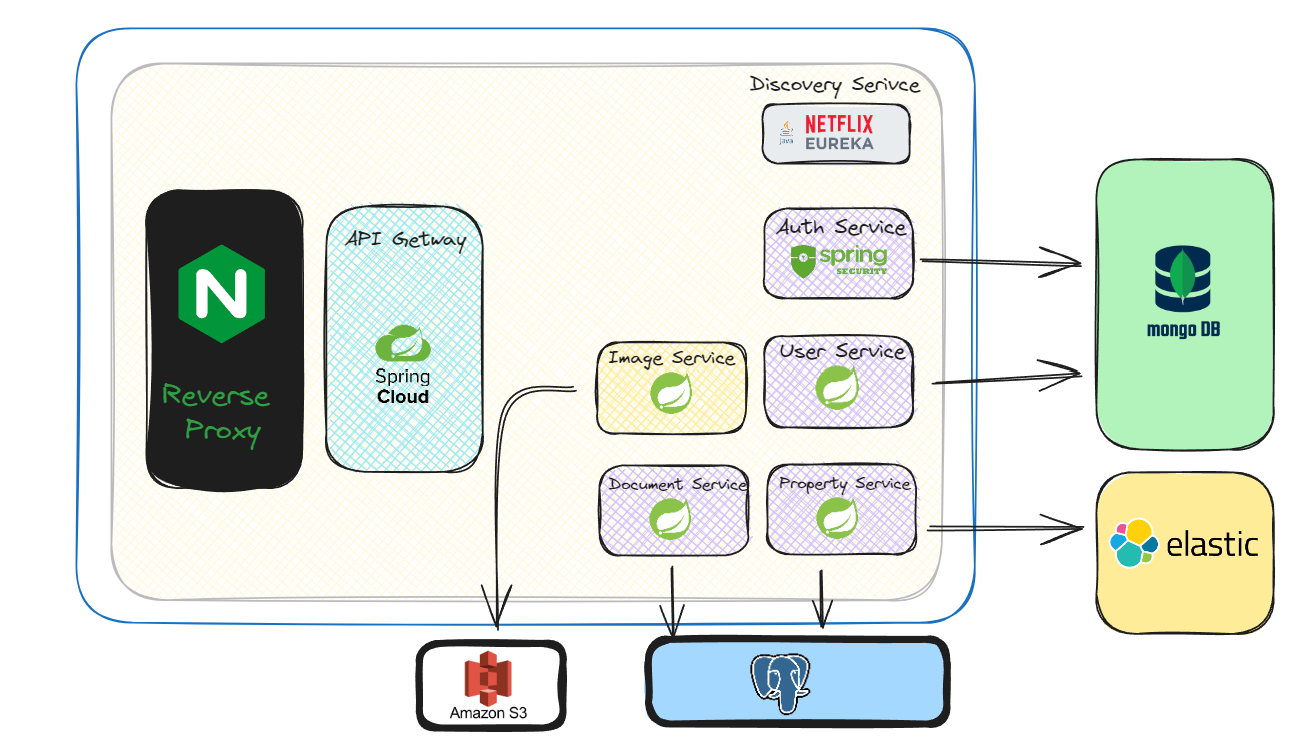
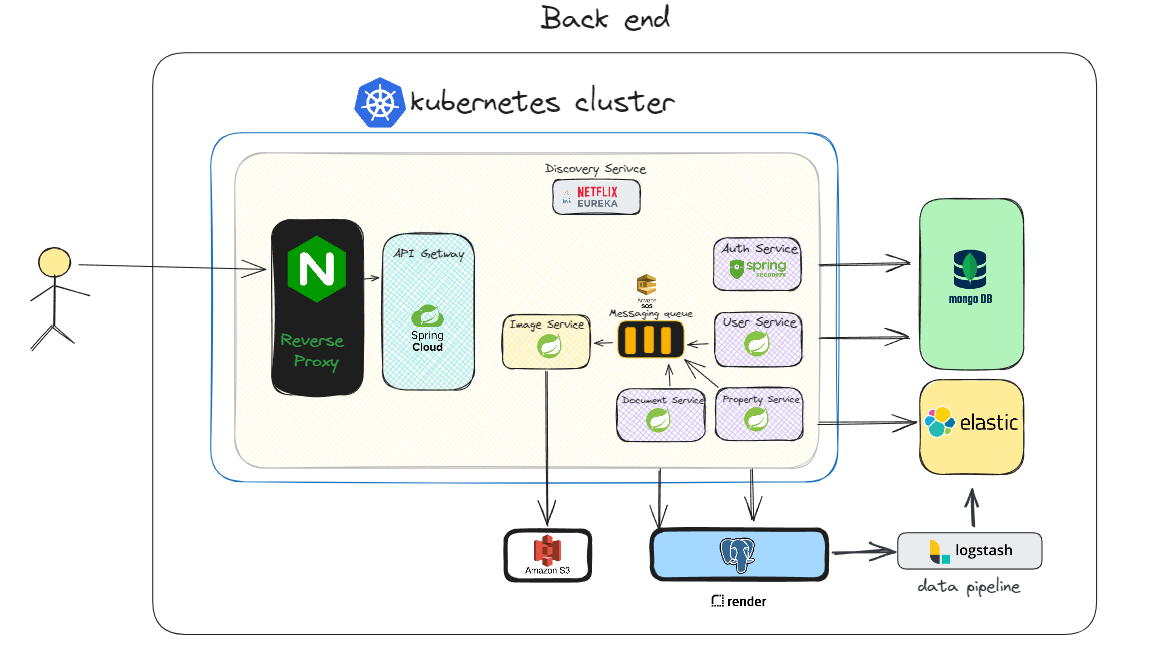
Update README.md

diff --git a/README.md b/README.md
@@ -2,5 +2,7 @@
 
 ------- 
 ![img.png](img.png)
+> for notice i am still implementing a way to send the image to the SQS , i have worked in a way to take an image and devid it into chunk and send it to the sqs
 -------
 ![img_1.png](img_1.png)
+
